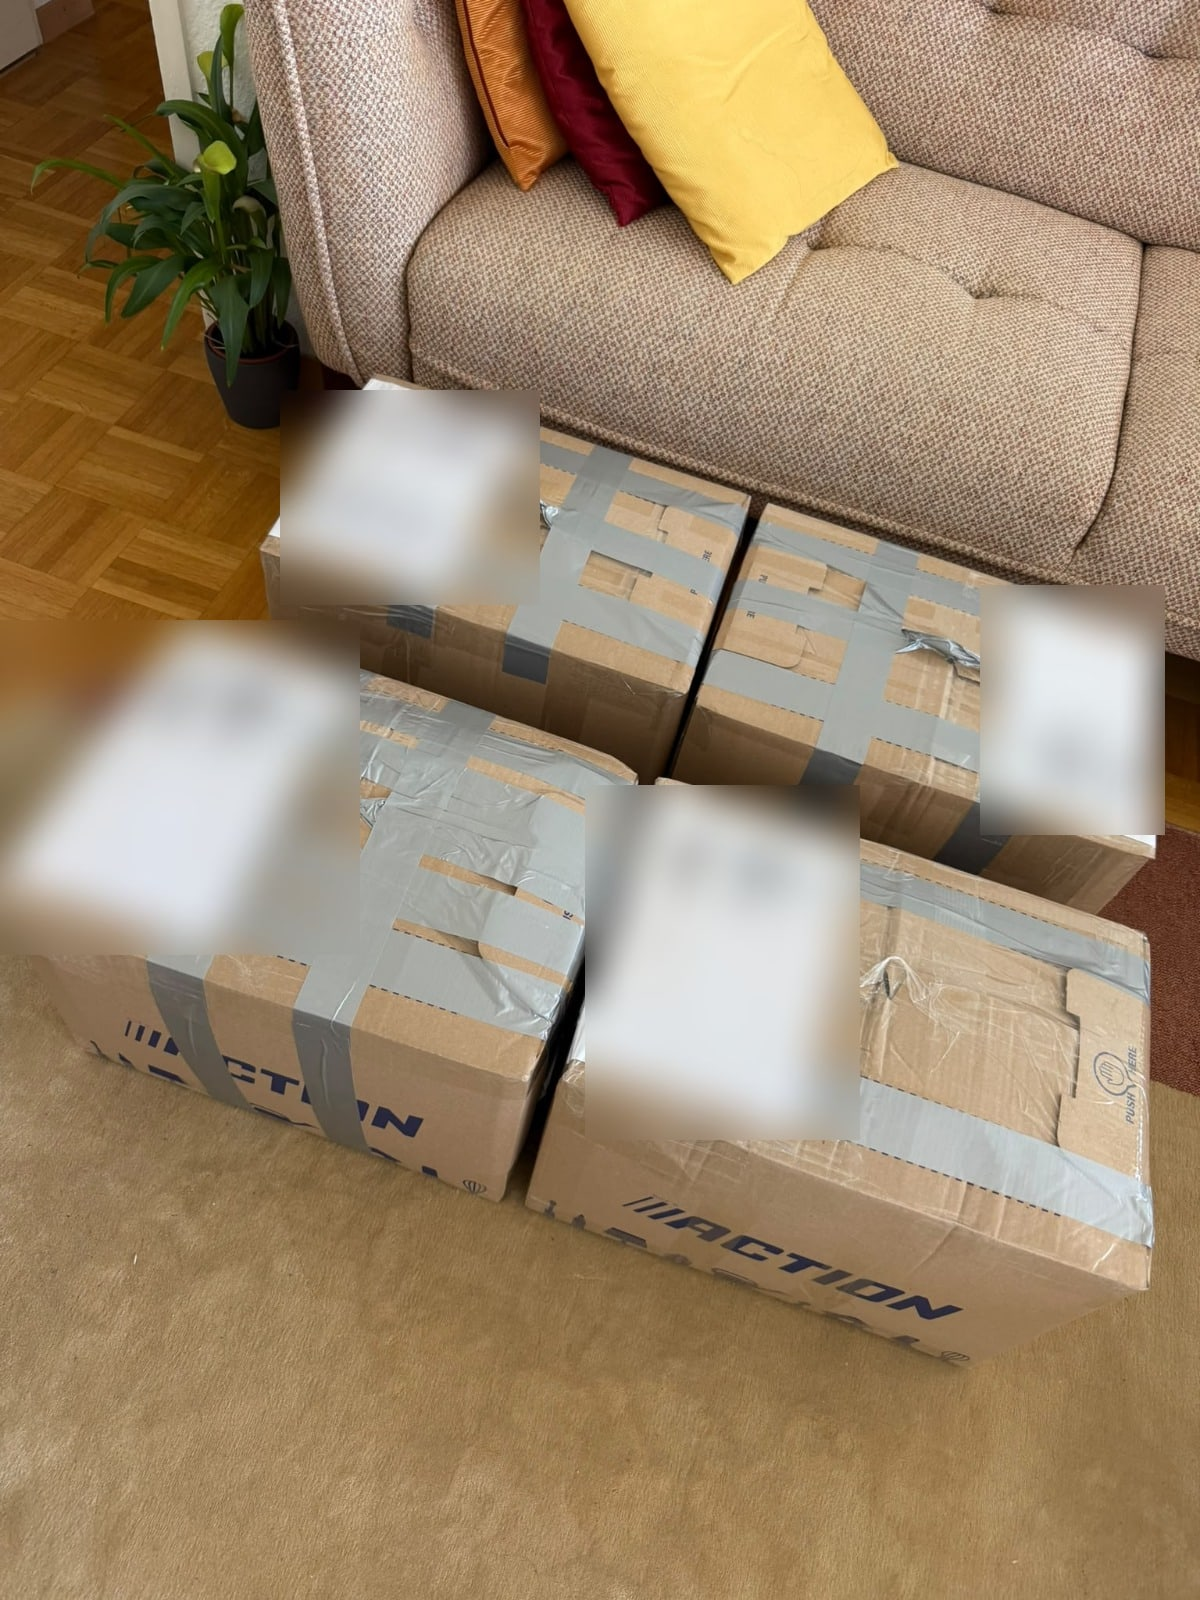
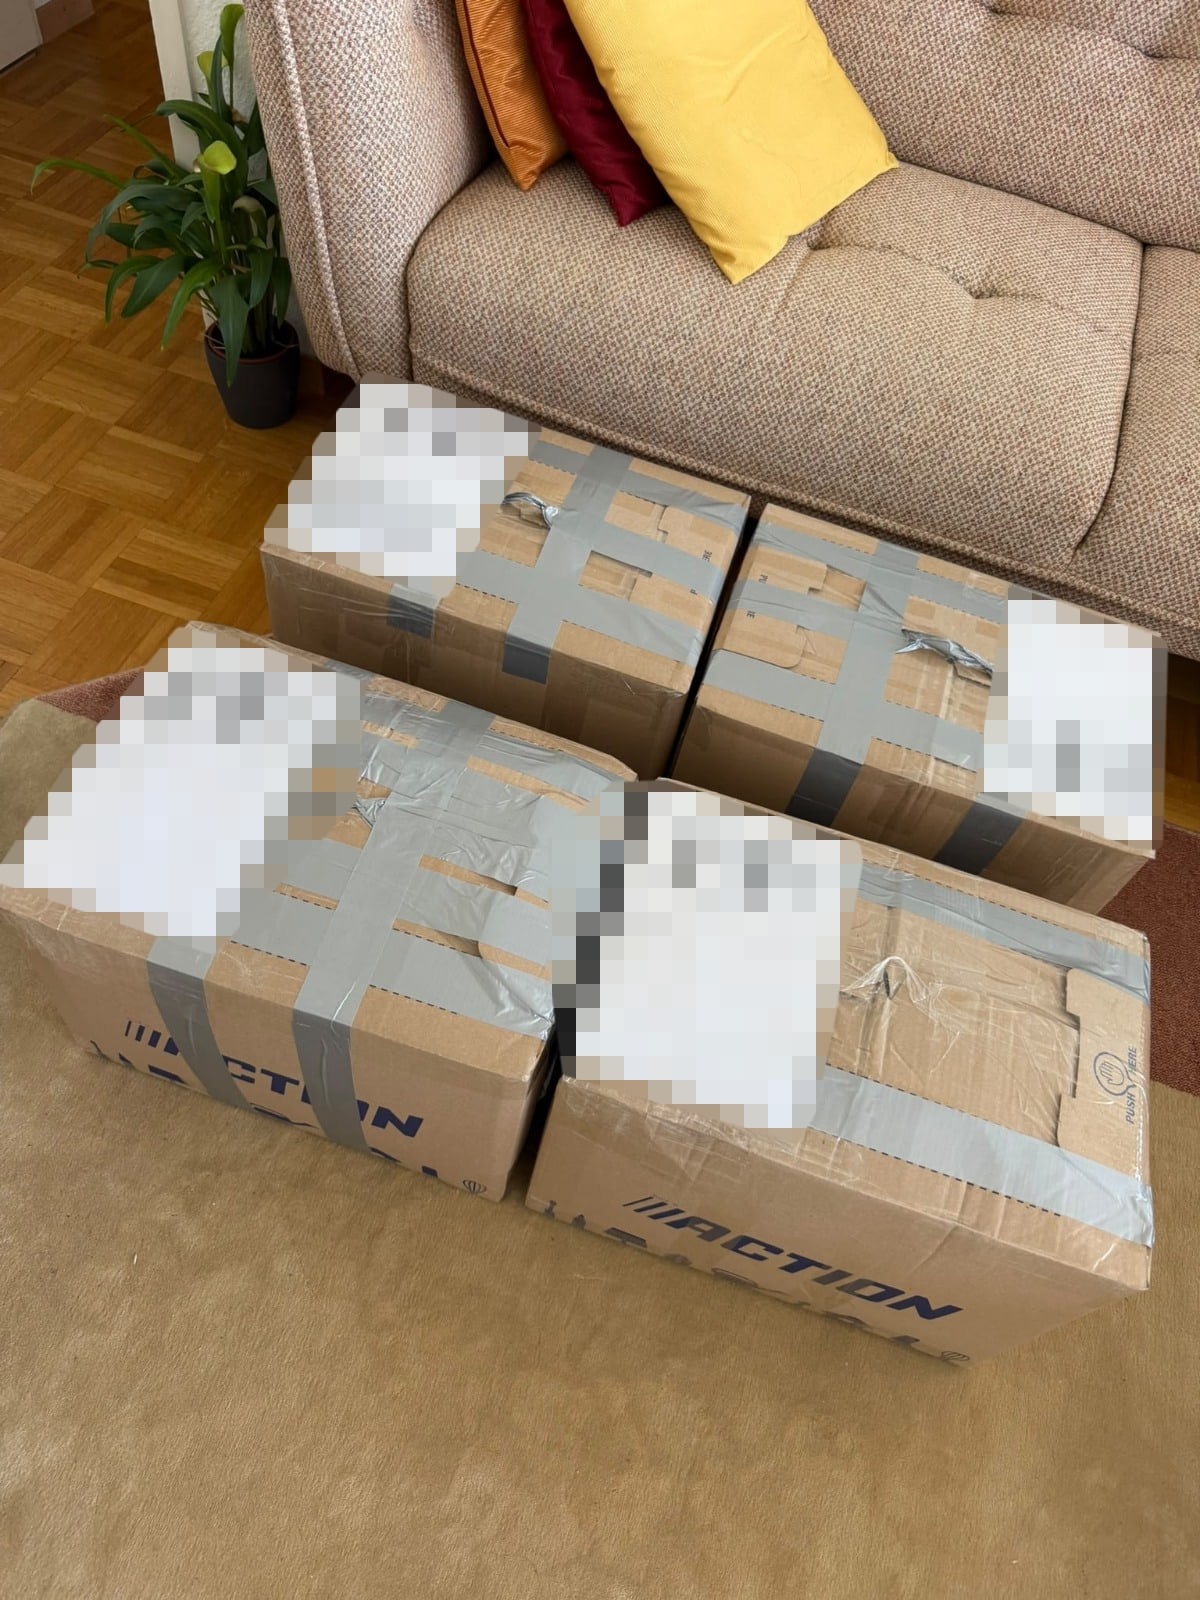
fix(expat): hero labels hide under a mosaic that follows each sheet
The deck's FedEx labels were blurred with rectangles, so every photo
carried soft grey boxes, and the originals in the files still showed
recipient names, an address, AWB numbers and a postcode at full size.

Each label is now covered by a mosaic clipped to the sheet's own
outline, traced from the paper, with a 1px antialiased edge. The tiles
are square, each the average colour beneath it, on one grid per photo,
and measure W/50 of the photo, about 9 CSS px in the deck. That is large
enough that no line of text or barcode bar survives. A name written on
one box, "(AUREL)", gets the same treatment; "BAJU WINTER" stays.

The photos are re-processed from the originals at the same size and
encoding, so none of the old blur remains. OCR on the results finds no
name, postcode, AWB or routing code. The small labels at the back of the
large-shipment photo are unreadable even at full size and are left as
they were.

Changed region(s): [[0.0, 0.2188, 0.4625, 0.5938], [0.4625, 0.4688, 0.74, 0.7188], [0.8017, 0.3438, 0.9867, 0.5312]]

diff --git a/lib/data/expat.ts b/lib/data/expat.ts
@@ -125,7 +125,9 @@ export const EXPAT_REVIEWS: {
 ];
 
 /**
- * The hero's photo deck: real shipments with Rimkirim's FedEx labels. Every
+ * The hero's photo deck: real shipments with Rimkirim's FedEx labels, each
+ * label (name, address, AWB) and a name written on a box covered by a mosaic
+ * that follows its shape, since the repo and the page are public. Every
  * frame is cropped to the deck's 5:4, so `position` keeps the boxes, not the
  * floor, in the crop. Ordered so near-identical shots never sit next to each
  * other, opening on the one the brief describes (boxes and suitcases ready to
@@ -172,7 +174,7 @@ export const SHIPMENT_EXAMPLES: ShipmentExample[] = [];
  * visitors.
  */
 export const REVIEW_NOTES = {
-  hero: "Pastikan klaim 'by air', pickup dari pintu, dan antar sampai pintu berlaku untuk semua negara asal expat. Papan keberangkatan di eyebrow menampilkan negara asal GBR, NLD, DEU, AUS, USA, FRA, JPN, SGP: konfirmasi daftarnya (RouteBoard.tsx). Foto hero adalah kiriman asli: pastikan ada izin customer, dan label FedEx yang memuat nama dan alamat sebaiknya diburamkan sebelum live.",
+  hero: "Pastikan klaim 'by air', pickup dari pintu, dan antar sampai pintu berlaku untuk semua negara asal expat. Papan keberangkatan di eyebrow menampilkan negara asal GBR, NLD, DEU, AUS, USA, FRA, JPN, SGP: konfirmasi daftarnya (RouteBoard.tsx). Foto hero adalah kiriman asli: pastikan ada izin customer. Label FedEx (nama, alamat, nomor AWB) dan nama yang ditulis di kardus sudah disensor mosaik.",
   cta: "Semua 'Get a quote' mengarah ke kalkulator relocation yang live (rimkirim.com/relocation/rates): estimasi, cek kelayakan, data diri, lalu WhatsApp. Ganti EXPAT_QUOTE_URL di lib/data/expat.ts kalau kalkulatornya dibangun di situs ini. Semua link WhatsApp sudah ke nomor live (+62 817 1717 7008).",
   reviews:
     "Placeholder: ulasan ini dari WNI yang pulang, bukan expat, dan akan diganti ulasan asli dari customer expat yang sedang di-approach (EXPAT_REVIEWS di lib/data/expat.ts, juga kutipan di hero). Kartu pertama menunggu foto asli customer: isi `photo` dengan path fotonya (dengan izin). Rating bintang dan link Google sengaja dihapus karena belum ada ulasan expat di Google.",
